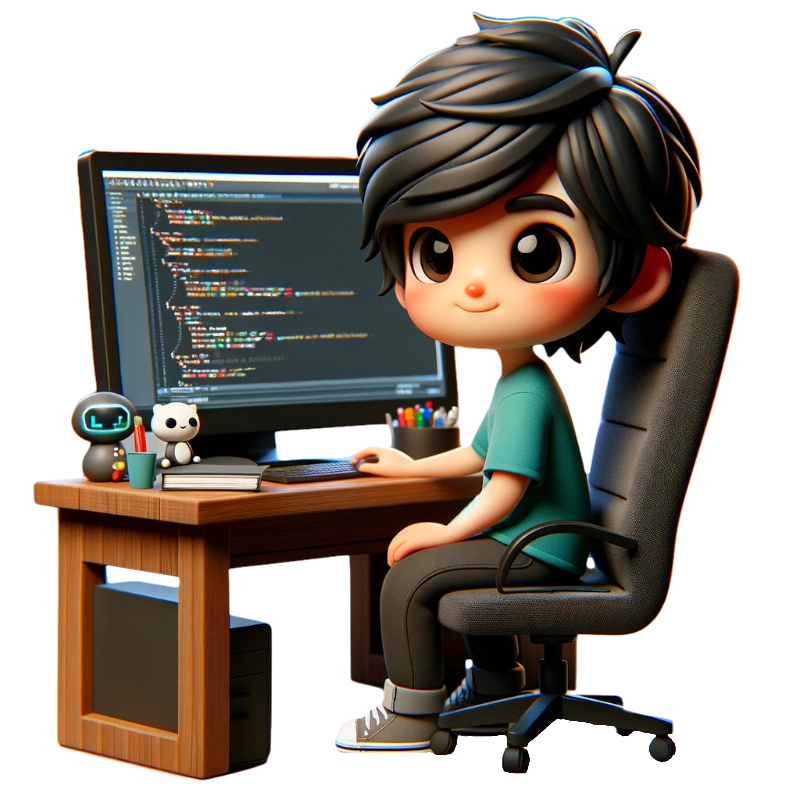
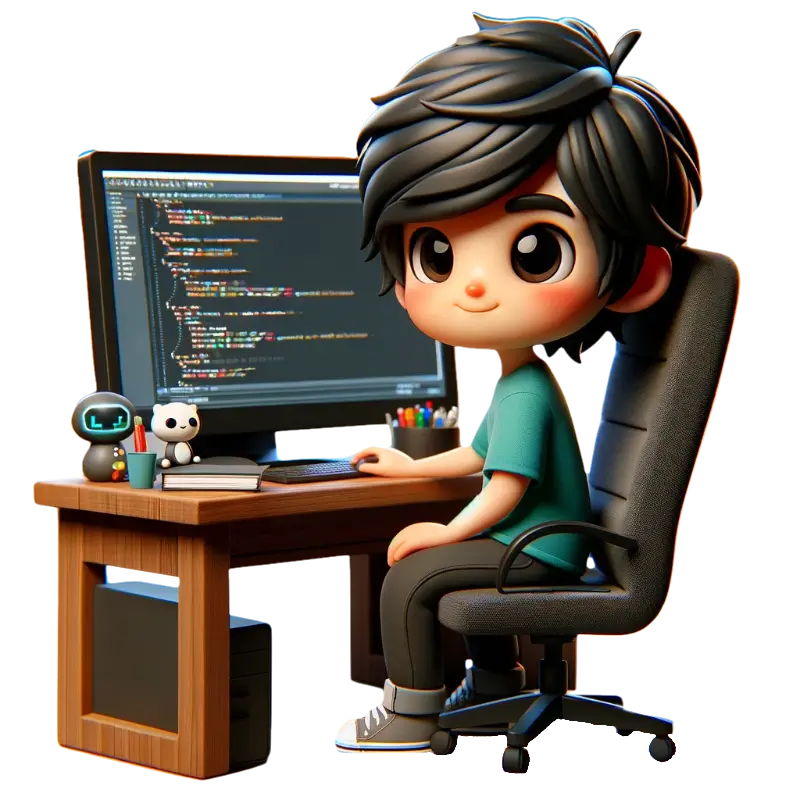
remove blur and optimize image

diff --git a/src/components/header-section/index.tsx b/src/components/header-section/index.tsx
@@ -3,7 +3,6 @@ import Image from "next/image";
 import HeroImg from "../../images/hero.webp";
 import DownArrow from "../../icons/DownArrow.svg";
 import SectionWrapper from "../common/section-wrapper";
-import { heroBase64 } from "@/images/hero";
 
 const HeaderSection = () => {
   return (
@@ -43,7 +42,6 @@ const HeaderSection = () => {
               src={HeroImg}
               alt="Hero Image"
               loading="eager"
-              blurDataURL={heroBase64}
               placeholder="blur"
             />
           </div>
